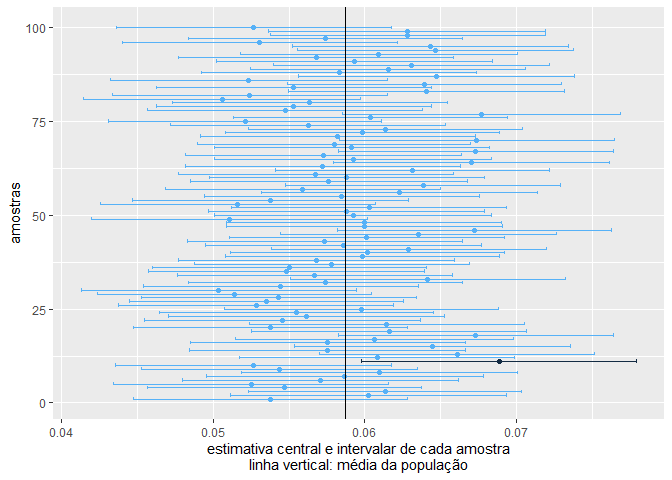
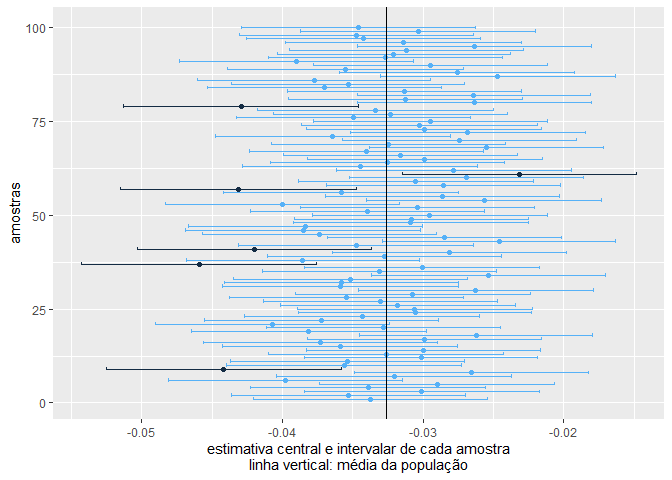
Atualiza documentação

diff --git a/README.md b/README.md
@@ -53,11 +53,7 @@ remotes::install_github("fulvionedel/Rcoisas")
 library(Rcoisas)
 ```
 
-<<<<<<< HEAD
 ### Tabelas 2 $\times$ 2
-=======
-### Tabelas 2 
->>>>>>> aef3b22b937675d49eb4f07faf33c19436970153
 
 ``` r
 obitos <- obitosRS2019[c("sexo", "idade", "RACACOR", "CAUSABAS")]
@@ -123,217 +119,110 @@ bolero(factor(obitos$sexo, levels = c("masc", "fem")), externas, dnn = c("sexo",
 ``` r
 demonstra_IC(rnorm(384), n = 50000, r = 100)
 #> $mediapop
-<<<<<<< HEAD
-#> [1] 0.05869496
+#> [1] -0.0326122
 #> 
 #> $medias
-#>          media     liminf     limsup fora
-#> 1   0.05377207 0.04475475 0.06278940    2
-#> 2   0.06023134 0.05115622 0.06930645    2
-#> 3   0.06134795 0.05234070 0.07035520    2
-#> 4   0.05472144 0.04568310 0.06375979    2
-#> 5   0.05251290 0.04346140 0.06156440    2
-#> 6   0.05708298 0.04799022 0.06617575    2
-#> 7   0.05868542 0.04957049 0.06780034    2
-#> 8   0.06097060 0.05189745 0.07004374    2
-#> 9   0.05438111 0.04530760 0.06345462    2
-#> 10  0.05266903 0.04358422 0.06175384    2
-#> 11  0.06885702 0.05978375 0.07793028    1
-#> 12  0.06080131 0.05175809 0.06984452    2
-#> 13  0.06607744 0.05702016 0.07513473    2
-#> 14  0.05751510 0.04842624 0.06660396    2
-#> 15  0.06445476 0.05537251 0.07353701    2
-#> 16  0.05755203 0.04849175 0.06661232    2
-#> 17  0.06061635 0.05146737 0.06976533    2
-#> 18  0.06729954 0.05824051 0.07635857    2
-#> 19  0.06160971 0.05253974 0.07067968    2
-#> 20  0.05377320 0.04471706 0.06282934    2
-#> 21  0.06143981 0.05238899 0.07049063    2
-#> 22  0.05458392 0.04549121 0.06367663    2
-#> 23  0.05616665 0.04706857 0.06526472    2
-#> 24  0.05550517 0.04646332 0.06454701    2
-#> 25  0.05978499 0.05073358 0.06883640    2
-#> 26  0.05284069 0.04379396 0.06188741    2
-#> 27  0.05352061 0.04446894 0.06257229    2
-#> 28  0.05432268 0.04524463 0.06340073    2
-#> 29  0.05140820 0.04237095 0.06044546    2
-#> 30  0.05036703 0.04131013 0.05942393    2
-#> 31  0.05445495 0.04538529 0.06352461    2
-#> 32  0.05739749 0.04836088 0.06643411    2
-#> 33  0.06416000 0.05509811 0.07322190    2
-#> 34  0.05670552 0.04766716 0.06574388    2
-#> 35  0.05483866 0.04576479 0.06391252    2
-#> 36  0.05503000 0.04597571 0.06408429    2
-#> 37  0.05781823 0.04876167 0.06687480    2
-#> 38  0.05680080 0.04769882 0.06590278    2
-#> 39  0.05983734 0.05078399 0.06889068    2
-#> 40  0.06018328 0.05113927 0.06922729    2
-#> 41  0.06290623 0.05383075 0.07198170    2
-#> 42  0.05857298 0.04946700 0.06767896    2
-#> 43  0.05734994 0.04828537 0.06641451    2
-#> 44  0.06013979 0.05107449 0.06920509    2
-#> 45  0.06352635 0.05444437 0.07260833    2
-#> 46  0.06720641 0.05817109 0.07624172    2
-#> 47  0.05996881 0.05089048 0.06904713    2
-#> 48  0.05996418 0.05089409 0.06903427    2
-#> 49  0.05107373 0.04199077 0.06015670    2
-#> 50  0.05922264 0.05011889 0.06832639    2
-#> 51  0.05879009 0.04970887 0.06787131    2
-#> 52  0.06029861 0.05123865 0.06935858    2
-#> 53  0.05160916 0.04254325 0.06067507    2
-#> 54  0.05378402 0.04470617 0.06286186    2
-#> 55  0.05847987 0.04942934 0.06753040    2
-#> 56  0.06229551 0.05321851 0.07137252    2
-#> 57  0.05589905 0.04683622 0.06496187    2
-#> 58  0.06385370 0.05478708 0.07292032    2
-#> 59  0.05761234 0.04848000 0.06674467    2
-#> 60  0.05880360 0.04973822 0.06786898    2
-#> 61  0.05677656 0.04771711 0.06583601    2
-#> 62  0.06312156 0.05409193 0.07215118    2
-#> 63  0.05723916 0.04818189 0.06629644    2
-#> 64  0.06703236 0.05795592 0.07610880    2
-#> 65  0.05922459 0.05011957 0.06832962    2
-#> 66  0.05729690 0.04820512 0.06638869    2
-#> 67  0.06730390 0.05823934 0.07636845    2
-#> 68  0.05914261 0.05007012 0.06821510    2
-#> 69  0.05797955 0.04899028 0.06696882    2
-#> 70  0.06738781 0.05831785 0.07645778    2
-#> 71  0.05821652 0.04915796 0.06727509    2
-#> 72  0.05981740 0.05079335 0.06884145    2
-#> 73  0.06138019 0.05234868 0.07041170    2
-#> 74  0.05625922 0.04721894 0.06529950    2
-#> 75  0.05211689 0.04313419 0.06109959    2
-#> 76  0.06035885 0.05131205 0.06940565    2
-#> 77  0.06769112 0.05855441 0.07682783    2
-#> 78  0.05473896 0.04565803 0.06381990    2
-#> 79  0.05532693 0.04626077 0.06439309    2
-#> 80  0.05637938 0.04730919 0.06544957    2
-#> 81  0.05059209 0.04146460 0.05971958    2
-#> 82  0.05241152 0.04336413 0.06145890    2
-#> 83  0.06406488 0.05498637 0.07314340    2
-#> 84  0.05532794 0.04623343 0.06442245    2
-#> 85  0.06392553 0.05489029 0.07296078    2
-#> 86  0.05234629 0.04322316 0.06146942    2
-#> 87  0.06470728 0.05561134 0.07380322    2
-#> 88  0.05830529 0.04924009 0.06737049    2
-#> 89  0.06152647 0.05243403 0.07061892    2
-#> 90  0.06308189 0.05397941 0.07218438    2
-#> 91  0.05930127 0.05018860 0.06841395    2
-#> 92  0.05679756 0.04773523 0.06585988    2
-#> 93  0.06091399 0.05179420 0.07003379    2
-#> 94  0.06466804 0.05557700 0.07375908    2
-#> 95  0.06434391 0.05523587 0.07345195    2
-#> 96  0.05307787 0.04401461 0.06214113    2
-#> 97  0.05742846 0.04839009 0.06646683    2
-#> 98  0.06283483 0.05376685 0.07190282    2
-#> 99  0.06278297 0.05367300 0.07189293    2
-#> 100 0.05266980 0.04360393 0.06173568    2
-=======
-#> [1] 0.00452078
-#> 
-#> $medias
-#>             media        liminf      limsup fora
-#> 1    0.0102158255  0.0014234421 0.019008209    2
-#> 2    0.0010533544 -0.0077610164 0.009867725    2
-#> 3    0.0023089267 -0.0065433064 0.011161160    2
-#> 4    0.0076036000 -0.0012106009 0.016417801    2
-#> 5    0.0042826257 -0.0045337762 0.013099028    2
-#> 6    0.0026925003 -0.0060864596 0.011471460    2
-#> 7    0.0006529614 -0.0081668133 0.009472736    2
-#> 8    0.0041294505 -0.0046672659 0.012926167    2
-#> 9    0.0003404831 -0.0084118829 0.009092849    2
-#> 10   0.0102706505  0.0014350625 0.019106238    2
-#> 11   0.0080815528 -0.0007092881 0.016872394    2
-#> 12   0.0060255072 -0.0027592183 0.014810233    2
-#> 13   0.0033386353 -0.0054720991 0.012149370    2
-#> 14   0.0037454858 -0.0050299608 0.012520932    2
-#> 15   0.0023456055 -0.0064129839 0.011104195    2
-#> 16   0.0061695001 -0.0026430782 0.014982078    2
-#> 17   0.0010576687 -0.0078008335 0.009916171    2
-#> 18   0.0087082226 -0.0001308565 0.017547302    2
-#> 19   0.0048658692 -0.0039057749 0.013637513    2
-#> 20   0.0065609059 -0.0023099401 0.015431752    2
-#> 21   0.0081666369 -0.0006105483 0.016943822    2
-#> 22   0.0058690792 -0.0029706571 0.014708815    2
-#> 23   0.0097968547  0.0009694201 0.018624289    2
-#> 24  -0.0022635302 -0.0109976721 0.006470612    2
-#> 25   0.0038562434 -0.0049841399 0.012696627    2
-#> 26   0.0023805974 -0.0063975698 0.011158764    2
-#> 27   0.0051551159 -0.0036509392 0.013961171    2
-#> 28  -0.0056468803 -0.0144615372 0.003167777    1
-#> 29   0.0058534066 -0.0029468971 0.014653710    2
-#> 30   0.0112179438  0.0023716977 0.020064190    2
-#> 31   0.0022595688 -0.0065517667 0.011070904    2
-#> 32   0.0083775631 -0.0004181865 0.017173313    2
-#> 33   0.0075354597 -0.0012430409 0.016313960    2
-#> 34   0.0165625626  0.0077496679 0.025375457    1
-#> 35   0.0019846645 -0.0068066900 0.010776019    2
-#> 36   0.0010581260 -0.0077672052 0.009883457    2
-#> 37   0.0104257043  0.0016365292 0.019214879    2
-#> 38   0.0106025740  0.0017785714 0.019426577    2
-#> 39  -0.0025164535 -0.0113053955 0.006272489    2
-#> 40   0.0098836822  0.0010657572 0.018701607    2
-#> 41   0.0015018910 -0.0072794685 0.010283250    2
-#> 42   0.0006858460 -0.0081400304 0.009511722    2
-#> 43   0.0103784706  0.0015799906 0.019176951    2
-#> 44   0.0023200901 -0.0065077587 0.011147939    2
-#> 45  -0.0010307288 -0.0098149404 0.007753483    2
-#> 46  -0.0004107188 -0.0092005583 0.008379121    2
-#> 47  -0.0038900003 -0.0127031307 0.004923130    2
-#> 48   0.0054424782 -0.0033788325 0.014263789    2
-#> 49   0.0031527018 -0.0056246387 0.011930042    2
-#> 50   0.0066599049 -0.0021187932 0.015438603    2
-#> 51   0.0030870312 -0.0056612453 0.011835308    2
-#> 52  -0.0005284354 -0.0093325818 0.008275711    2
-#> 53   0.0076182417 -0.0012497870 0.016486270    2
-#> 54  -0.0052136344 -0.0140284932 0.003601224    1
-#> 55   0.0064658320 -0.0022970169 0.015228681    2
-#> 56   0.0060016450 -0.0028513412 0.014854631    2
-#> 57   0.0042006758 -0.0046305289 0.013031880    2
-#> 58  -0.0020259246 -0.0108515139 0.006799665    2
-#> 59  -0.0011511765 -0.0099651757 0.007662823    2
-#> 60   0.0060018363 -0.0028112872 0.014814960    2
-#> 61   0.0085390448 -0.0002884848 0.017366575    2
-#> 62  -0.0047776711 -0.0135774024 0.004022060    1
-#> 63   0.0023260268 -0.0064908931 0.011142947    2
-#> 64   0.0064224396 -0.0024135336 0.015258413    2
-#> 65   0.0080675452 -0.0007295627 0.016864653    2
-#> 66   0.0015651090 -0.0072235449 0.010353763    2
-#> 67  -0.0031898487 -0.0120262286 0.005646531    2
-#> 68   0.0004677897 -0.0083537375 0.009289317    2
-#> 69   0.0005825122 -0.0082535886 0.009418613    2
-#> 70   0.0085544981 -0.0002507750 0.017359771    2
-#> 71  -0.0010941047 -0.0099091492 0.007720940    2
-#> 72  -0.0035227738 -0.0123016624 0.005256115    2
-#> 73   0.0157388695  0.0068992869 0.024578452    1
-#> 74  -0.0012681516 -0.0100806210 0.007544318    2
-#> 75   0.0106453434  0.0018207808 0.019469906    2
-#> 76   0.0053944693 -0.0034169617 0.014205900    2
-#> 77   0.0075986841 -0.0011854296 0.016382798    2
-#> 78   0.0084457970 -0.0003697071 0.017261301    2
-#> 79  -0.0009458769 -0.0097540666 0.007862313    2
-#> 80   0.0014858598 -0.0072615689 0.010233288    2
-#> 81  -0.0008885623 -0.0097025162 0.007925392    2
-#> 82   0.0030756244 -0.0056864384 0.011837687    2
-#> 83   0.0105252034  0.0017077293 0.019342677    2
-#> 84   0.0013205430 -0.0075076186 0.010148705    2
-#> 85   0.0044073704 -0.0043710573 0.013185798    2
-#> 86  -0.0004965104 -0.0092826915 0.008289671    2
-#> 87   0.0030772413 -0.0057331997 0.011887682    2
-#> 88   0.0101890441  0.0013394650 0.019038623    2
-#> 89   0.0012239903 -0.0075482332 0.009996214    2
-#> 90   0.0097628070  0.0009355025 0.018590112    2
-#> 91   0.0126547815  0.0038047598 0.021504803    2
-#> 92   0.0061587823 -0.0026574222 0.014974987    2
-#> 93   0.0052149897 -0.0035948018 0.014024781    2
-#> 94   0.0052138939 -0.0035754141 0.014003202    2
-#> 95   0.0007363870 -0.0080340463 0.009506820    2
-#> 96   0.0009503588 -0.0078717216 0.009772439    2
-#> 97   0.0026588141 -0.0061752561 0.011492884    2
-#> 98   0.0069124281 -0.0019370226 0.015761879    2
-#> 99   0.0063270955 -0.0025093207 0.015163512    2
-#> 100  0.0126831247  0.0038597717 0.021506478    2
->>>>>>> aef3b22b937675d49eb4f07faf33c19436970153
+#>           media      liminf      limsup fora
+#> 1   -0.03372670 -0.04203076 -0.02542264    2
+#> 2   -0.03531149 -0.04362602 -0.02699695    2
+#> 3   -0.03010696 -0.03844995 -0.02176398    2
+#> 4   -0.03391704 -0.04224861 -0.02558546    2
+#> 5   -0.02900987 -0.03733389 -0.02068585    2
+#> 6   -0.03977473 -0.04811687 -0.03143259    2
+#> 7   -0.03204612 -0.04038727 -0.02370496    2
+#> 8   -0.02658223 -0.03489686 -0.01826760    2
+#> 9   -0.04416587 -0.05249785 -0.03583388    1
+#> 10  -0.03560765 -0.04395799 -0.02725730    2
+#> 11  -0.03538020 -0.04370976 -0.02705064    2
+#> 12  -0.03013769 -0.03842680 -0.02184858    2
+#> 13  -0.03263417 -0.04096238 -0.02430596    2
+#> 14  -0.02999992 -0.03831979 -0.02168006    2
+#> 15  -0.03590700 -0.04422379 -0.02759021    2
+#> 16  -0.03727776 -0.04559235 -0.02896317    2
+#> 17  -0.02988881 -0.03821685 -0.02156076    2
+#> 18  -0.02624574 -0.03455520 -0.01793627    2
+#> 19  -0.03811775 -0.04644815 -0.02978736    2
+#> 20  -0.03280204 -0.04111195 -0.02449213    2
+#> 21  -0.04069300 -0.04902663 -0.03235937    2
+#> 22  -0.03720627 -0.04553667 -0.02887588    2
+#> 23  -0.03434212 -0.04266963 -0.02601462    2
+#> 24  -0.03057937 -0.03888358 -0.02227516    2
+#> 25  -0.03058588 -0.03890946 -0.02226230    2
+#> 26  -0.03181235 -0.04015323 -0.02347148    2
+#> 27  -0.03303136 -0.04135241 -0.02471031    2
+#> 28  -0.03546508 -0.04377579 -0.02715437    2
+#> 29  -0.03072197 -0.03905293 -0.02239101    2
+#> 30  -0.02626140 -0.03461077 -0.01791203    2
+#> 31  -0.03587872 -0.04424381 -0.02751364    2
+#> 32  -0.03580691 -0.04410450 -0.02750933    2
+#> 33  -0.03515051 -0.04347470 -0.02682632    2
+#> 34  -0.02535021 -0.03367872 -0.01702170    2
+#> 35  -0.03313146 -0.04144206 -0.02482087    2
+#> 36  -0.03006818 -0.03840581 -0.02173054    2
+#> 37  -0.04592202 -0.05428429 -0.03755975    1
+#> 38  -0.03855022 -0.04684264 -0.03025781    2
+#> 39  -0.03274514 -0.04106785 -0.02442243    2
+#> 40  -0.02813983 -0.03646892 -0.01981074    2
+#> 41  -0.04200131 -0.05032354 -0.03367909    1
+#> 42  -0.03476381 -0.04311042 -0.02641720    2
+#> 43  -0.02459220 -0.03287847 -0.01630594    2
+#> 44  -0.02850117 -0.03680832 -0.02019403    2
+#> 45  -0.03734601 -0.04566560 -0.02902642    2
+#> 46  -0.03853566 -0.04689236 -0.03017897    2
+#> 47  -0.03837716 -0.04667942 -0.03007490    2
+#> 48  -0.03086797 -0.03919722 -0.02253871    2
+#> 49  -0.03080884 -0.03910664 -0.02251103    2
+#> 50  -0.02951956 -0.03787672 -0.02116240    2
+#> 51  -0.03397272 -0.04228937 -0.02565608    2
+#> 52  -0.03037206 -0.03868854 -0.02205557    2
+#> 53  -0.04000245 -0.04832039 -0.03168451    2
+#> 54  -0.02566273 -0.03399648 -0.01732897    2
+#> 55  -0.02864512 -0.03696239 -0.02032786    2
+#> 56  -0.03583418 -0.04419642 -0.02747194    2
+#> 57  -0.04308805 -0.05146566 -0.03471045    1
+#> 58  -0.02853181 -0.03684394 -0.02021969    2
+#> 59  -0.03051453 -0.03884909 -0.02217997    2
+#> 60  -0.02692368 -0.03522899 -0.01861837    2
+#> 61  -0.02313335 -0.03145180 -0.01481489    1
+#> 62  -0.02782306 -0.03617638 -0.01946975    2
+#> 63  -0.03446557 -0.04280437 -0.02612677    2
+#> 64  -0.03252688 -0.04083935 -0.02421440    2
+#> 65  -0.02989079 -0.03824122 -0.02154035    2
+#> 66  -0.03160227 -0.03990694 -0.02329761    2
+#> 67  -0.03403856 -0.04232912 -0.02574800    2
+#> 68  -0.02553184 -0.03384018 -0.01722350    2
+#> 69  -0.03246465 -0.04077903 -0.02415026    2
+#> 70  -0.02739697 -0.03571145 -0.01908250    2
+#> 71  -0.03640845 -0.04475512 -0.02806178    2
+#> 72  -0.02682181 -0.03517393 -0.01846969    2
+#> 73  -0.02993678 -0.03825799 -0.02161558    2
+#> 74  -0.03024652 -0.03862347 -0.02186956    2
+#> 75  -0.02950267 -0.03781606 -0.02118927    2
+#> 76  -0.03493083 -0.04323238 -0.02662928    2
+#> 77  -0.03231080 -0.04064157 -0.02398003    2
+#> 78  -0.03336768 -0.04174405 -0.02499131    2
+#> 79  -0.04293584 -0.05127091 -0.03460077    1
+#> 80  -0.02636713 -0.03467818 -0.01805609    2
+#> 81  -0.03127363 -0.03957878 -0.02296849    2
+#> 82  -0.02639237 -0.03469778 -0.01808697    2
+#> 83  -0.03132072 -0.03963466 -0.02300679    2
+#> 84  -0.03701840 -0.04533318 -0.02870362    2
+#> 85  -0.03533765 -0.04363058 -0.02704471    2
+#> 86  -0.03775339 -0.04604424 -0.02946254    2
+#> 87  -0.02469878 -0.03302783 -0.01636973    2
+#> 88  -0.02759474 -0.03592575 -0.01926373    2
+#> 89  -0.03551542 -0.04386760 -0.02716323    2
+#> 90  -0.02945920 -0.03777315 -0.02114525    2
+#> 91  -0.03898428 -0.04728899 -0.03067957    2
+#> 92  -0.03266089 -0.04098004 -0.02434174    2
+#> 93  -0.03209186 -0.04036603 -0.02381768    2
+#> 94  -0.03117603 -0.03947178 -0.02288029    2
+#> 95  -0.02635411 -0.03465638 -0.01805184    2
+#> 96  -0.03140595 -0.03977194 -0.02303996    2
+#> 97  -0.03425573 -0.04258190 -0.02592956    2
+#> 98  -0.03473876 -0.04304141 -0.02643612    2
+#> 99  -0.03035233 -0.03867935 -0.02202532    2
+#> 100 -0.03462391 -0.04293099 -0.02631683    2
 #> 
 #> $grafico
 ```
@@ -346,23 +235,13 @@ demonstra_IC(rnorm(384), n = 50000, r = 100)
     #>  One Sample t-test
     #> 
     #> data:  medias
-<<<<<<< HEAD
-    #> t = 12.911, df = 399, p-value < 2.2e-16
+    #> t = 10.666, df = 399, p-value < 2.2e-16
     #> alternative hypothesis: true mean is not equal to 0
     #> 95 percent confidence interval:
-    #>  0.4590651 0.6239752
+    #>  0.3756437 0.5454015
     #> sample estimates:
     #> mean of x 
-    #> 0.5415201
-=======
-    #> t = 11.537, df = 399, p-value < 2.2e-16
-    #> alternative hypothesis: true mean is not equal to 0
-    #> 95 percent confidence interval:
-    #>  0.4070878 0.5743174
-    #> sample estimates:
-    #> mean of x 
-    #> 0.4907026
->>>>>>> aef3b22b937675d49eb4f07faf33c19436970153
+    #> 0.4605226
 
 ### Descrição univariada
 
@@ -374,25 +253,14 @@ descreve(rnorm(1000))
 
     #> rnorm(1000) :  1000  observações 
     #> 
-<<<<<<< HEAD
-    #> Válidos: 1000     Missings: 0     Soma: 37.46 
-    #> Menor: -4.19  Maior: 2.74     Amplitude: 6.94
-    #> Média: 0.04   DP: 1   CV(%): 2674.87
-    #> Assimetria: -0.09     Curtose(real): 3.1
+    #> Válidos: 1000     Missings: 0     Soma: 38.82 
+    #> Menor: -3.31  Maior: 3.51     Amplitude: 6.83
+    #> Média: 0.04   DP: 1   CV(%): 2563.68
+    #> Assimetria: 0.1   Curtose(real): 3.07
     #> Quantis:
     #>  2.5%    5%   25%   50%   75%   95% 97.5% 
-    #> -1.92 -1.59 -0.60  0.04  0.73  1.67  1.91 
-    #>        IIQ: 1.32
-=======
-    #> Válidos: 1000     Missings: 0     Soma: -70.99 
-    #> Menor: -3.49  Maior: 2.97     Amplitude: 6.46
-    #> Média: -0.07  DP: 1.01    CV(%): 1424.37
-    #> Assimetria: 0.05  Curtose(real): 3.05
-    #> Quantis:
-    #>  2.5%    5%   25%   50%   75%   95% 97.5% 
-    #> -2.00 -1.72 -0.74 -0.09  0.59  1.60  1.97 
-    #>        IIQ: 1.33
->>>>>>> aef3b22b937675d49eb4f07faf33c19436970153
+    #> -1.86 -1.62 -0.61  0.06  0.68  1.75  2.05 
+    #>        IIQ: 1.29
     histobox(rnorm(1000))
 
 <img src="man/figures/README-unnamed-chunk-6-2.png" width="100%" />
